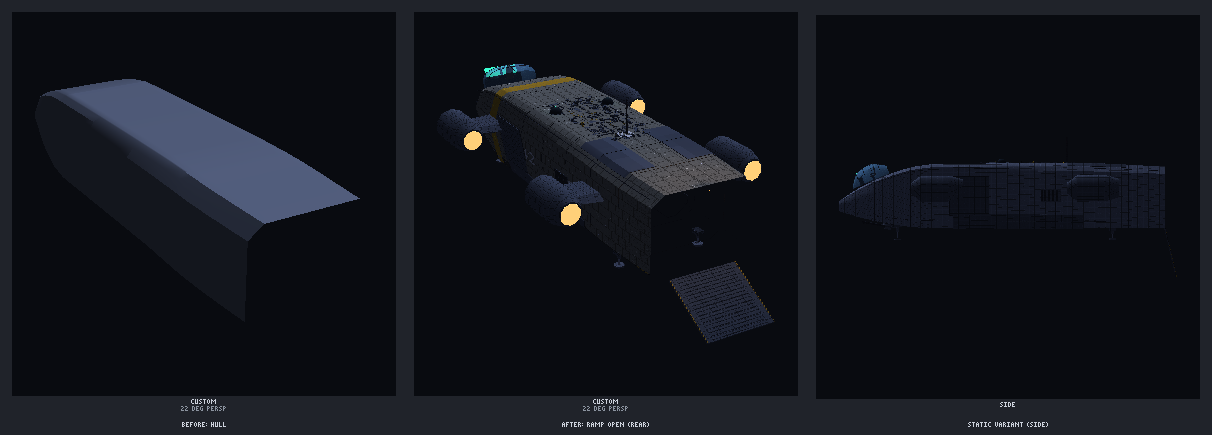
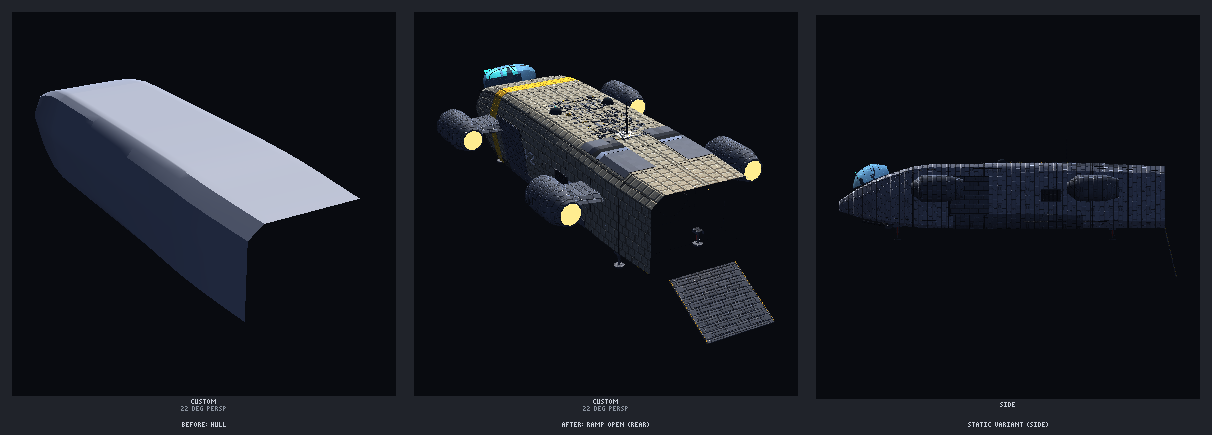
Docs: hero gunship renders (turntable, flight, scale, details, interior) + re-rendered secondary demos
- booms attach at the shoulder pivots; clearer cockpit glass; portal arches open at the floor
- market street: tread deck, grating lane with hazard edges, concrete walls

diff --git a/src/gunship.js b/src/gunship.js
@@ -71,7 +71,7 @@ export function gunshipTemplate(o = {}) {
   const parts = [body];
   const Sx = (t, yl) => S.halfWidthAt(t, yl); // outer half width at local height
   // ---------- glazing + nose sensor cage ----------
-  parts.push({ type: 'glazing', hull: 'body', t: glz.t, u: glz.u, cols: 6, rows: 2, mullion: 5, frame: 9, inset: 3, textures: { glass: 'kit_glass', frame: DARK }, ...P });
+  parts.push({ type: 'glazing', hull: 'body', t: glz.t, u: glz.u, cols: 6, rows: 2, mullion: 5, frame: 9, inset: 3, opacity: 0.2, textures: { glass: '#8ec4dc', frame: DARK }, ...P });
   const nz = zt(1);
   parts.push({ type: 'truss', from: [0, Y(48), nz - 6], to: [0, Y(48), nz + 54], w: 26, h: 22, bay: 18, style: 'x', chord: 1.6, brace: 0.9, texture: DARK, ...P });
   parts.push({ type: 'sensor_dome', at: [0, Y(42), nz + 30], r: 7, ...P });
@@ -93,7 +93,7 @@ export function gunshipTemplate(o = {}) {
     // shoulder pivot: exposed knuckles + collar
     parts.push({ type: 'cylinder', r: 20, h: 16, segments: 12, rotate: [0, 0, 90], at: [r2(s * (xS + (s > 0 ? 14 : -2))), yB, zB], texture: DARK, material: 'bare_metal', ...P });
     parts.push({ type: 'hinge', len: 30, r: 9, count: 4, at: [r2(s * (xS + 8)), yB + 14, zB], ...P });
-    parts.push({ type: 'hull', ...(rig ? { name: boomN, parent: 'hull' } : {}), id: `boom_${sfx}`, length: boomLen, width: 40, height: 30, at: [r2(s * (xS + 12 + boomLen / 2)), yB - 15, zB], rotate: [0, s * 90, 0], pivot: [r2(-s * (boomLen / 2 + 12)) * 0, 15, r2(-(boomLen / 2 + 4))], plan: [[0, 20], [0.85, 16], [1, 12]], profile: [[0, 30, 0], [0.8, 26, 3], [1, 22, 6]], section: { points: [[0, 1], [0.6, 1], [1, 0.4], [1, -0.4], [0.6, -1], [-0.6, -1], [-1, -0.4], [-1, 0.4], [-0.6, 1]] }, rings: 8, segments: 12, panel_lines: { every: 48, seams: [0.25], width: 1.5, depth: 1.2 }, plates: [{ t: [0.15, 0.7], u: [0.92, 0.08], lift: 2 }], texture: HULL, groove: DARK, plate_texture: HULL2, material: 'painted_metal' });
+    parts.push({ type: 'hull', ...(rig ? { name: boomN, parent: 'hull' } : {}), id: `boom_${sfx}`, length: boomLen, width: 40, height: 30, at: [r2(s * (xS + 12 + boomLen / 2)), yB - 15, zB], rotate: [0, s * 90, 0], plan: [[0, 20], [0.85, 16], [1, 12]], profile: [[0, 30, 0], [0.8, 26, 3], [1, 22, 6]], section: { points: [[0, 1], [0.6, 1], [1, 0.4], [1, -0.4], [0.6, -1], [-0.6, -1], [-1, -0.4], [-1, 0.4], [-0.6, 1]] }, rings: 8, segments: 12, panel_lines: { every: 48, seams: [0.25], width: 1.5, depth: 1.2 }, plates: [{ t: [0.15, 0.7], u: [0.92, 0.08], lift: 2 }], texture: HULL, groove: DARK, plate_texture: HULL2, material: 'painted_metal' });
     // underslung gun pod near the root, missile rail outboard
     parts.push({ type: 'gun_pod', at: [r2(s * (xS + 70)), yB - 16, zB + 6], len: 96, r: 9, barrels: 6, ...PB });
     for (const k2 of [0, 1]) parts.push({ type: 'hardpoint', at: [r2(s * (xS + 140 + k2 * 40)), yB - 16, zB], len: 60, missile_r: 4, textures: { texture: MET, dark: DARK }, ...PB });

diff --git a/src/kitship.js b/src/kitship.js
@@ -242,12 +242,14 @@ registerAssembly('locker_wall', (p, k) => {
 registerAssembly('portal_arch', (p) => {
   // chamfered octagonal bulkhead portal round a corridor (plane xy, centred on x, floor at y = 0)
   const wi = n(p.w, 72), hi = n(p.h, 84), ci = n(p.chamfer, 16), fw = n(p.frame, 8), d = n(p.d, 8), T = tx(p, 'texture', 'kit_panel_light'), dark = tx(p, 'dark', 'kit_metal_dark');
-  const oct = (w, h, c) => [[-w / 2 + c, 0], [w / 2 - c, 0], [w / 2, c], [w / 2, h - c], [w / 2 - c, h], [-w / 2 + c, h], [-w / 2, h - c], [-w / 2, c]];
+  // chamfered at the head only: the jambs run straight down to the floor (nothing to trip over)
+  const oct = (w, h, c) => [[-w / 2, 0], [w / 2, 0], [w / 2, 0], [w / 2, h - c], [w / 2 - c, h], [-w / 2 + c, h], [-w / 2, h - c], [-w / 2, 0]];
   const I = oct(wi, hi, ci), O = oct(wi + 2 * fw, hi + fw, ci + fw * 0.6);
-  O[0][1] = O[1][1] = 0; O[2][1] = Math.max(O[2][1], 0);
+  O[0][1] = O[1][1] = O[2][1] = O[7][1] = 0;
   const parts = [];
   for (let e = 1; e < 8; e++) { // the floor edge (e = 0) stays open
-    if (e === 7 || e === 1) { // bottom chamfers: fill down to the floor
+    if (e === 7 || e === 1) continue; // no bottom chamfers
+    if (false) {
       const a = I[e], b = I[(e + 1) % 8], A = O[e], B = O[(e + 1) % 8];
       const pts = [a, b, B, A].map((q) => q.map(r3));
       const area = pts.reduce((s, q, i) => { const w = pts[(i + 1) % 4]; return s + q[0] * w[1] - w[0] * q[1]; }, 0);
@@ -260,6 +262,6 @@ registerAssembly('portal_arch', (p) => {
     parts.push({ type: 'shape', points: area < 0 ? pts.reverse() : pts, d, plane: 'xy', texture: T });
   }
   parts.push({ type: 'box', w: wi - 2 * ci, h: 1.4, d: d + 1, at: [0, hi - 1.4, 0], color: p.glow ?? '#60c8ff', material: { preset: 'emissive_panel' } });
-  for (const s of [1, -1]) parts.push({ type: 'box', w: 1, h: hi - 2 * ci, d: d + 0.6, at: [s * (wi / 2 + 0.2), ci, 0], texture: 'kit_hazard' });
+  for (const s of [1, -1]) parts.push({ type: 'box', w: 1, h: Math.min(40, hi - ci), d: d + 0.6, at: [s * (wi / 2 + 0.2), 0, 0], texture: 'kit_hazard' });
   return { parts };
 }, 'w?:72,h?:84 (clear opening, >= 1.4 x 2.3 m),chamfer?:16,frame?:8,d?:8 (chamfered octagonal bulkhead portal, open at the floor, light bar on the head, hazard jambs)');

diff --git a/src/layoutgen.js b/src/layoutgen.js
@@ -239,13 +239,14 @@ export function marketDistrict(name, o = {}) {
   const kits = new Map();
   const kit = (key, part) => { if (!kits.has(key)) kits.set(key, kitModel(name, key, part)); return kits.get(key).name; };
   const parts = [], walk = [];
-  const wallT = o.textures?.wall ?? '#4a4640', floorT = o.textures?.floor ?? '#3a3a3c';
+  const wallT = o.textures?.wall ?? 'kit_concrete_4a4640', floorT = o.textures?.floor ?? 'kit_deck';
   // cavern shell: floor, side walls, end walls (one open), ceiling slabs
   parts.push({ type: 'box', w: W, h: 8, d: L, at: [0, -8, 0], texture: floorT });
   for (const s of [1, -1]) parts.push({ type: 'box', w: 16, h: H, d: L, at: [s * (W / 2 + 8), 0, 0], texture: wallT });
   parts.push({ type: 'box', w: W + 32, h: H, d: 16, at: [0, 0, -L / 2 - 8], texture: wallT });
-  parts.push({ type: 'box', w: W + 32, h: 24, d: L, at: [0, H, 0], texture: o.textures?.ceiling ?? '#2c2a28' });
-  parts.push({ type: 'box', w: street * 0.9, h: 0.5, d: L, at: [0, 0, 0], color: '#2a2a2c' });
+  parts.push({ type: 'box', w: W + 32, h: 24, d: L, at: [0, H, 0], texture: o.textures?.ceiling ?? 'kit_rock_3a3632' });
+  parts.push({ type: 'box', w: street * 0.9, h: 0.5, d: L, at: [0, 0, 0], texture: 'kit_grate' });
+  for (const s of [1, -1]) parts.push({ type: 'box', w: 4, h: 0.6, d: L, at: [r2(s * street * 0.47), 0, 0], texture: 'kit_hazard' });
   walk.push({ min: [-W / 2, 0, -L / 2], max: [W / 2, 0, L / 2], kind: 'street' });
   // stalls along both sides (3 variants each side, instanced)
   const stallW = 64, nSt = Math.floor((L - 64) / (stallW + 16));
